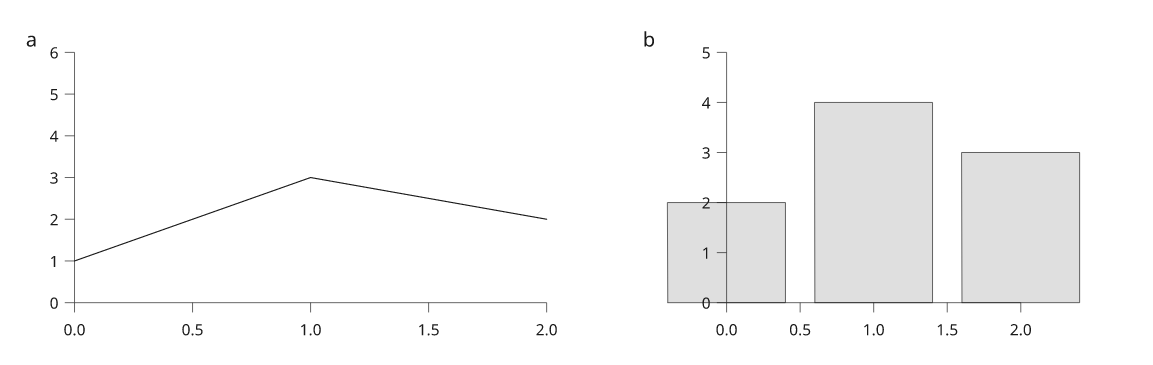
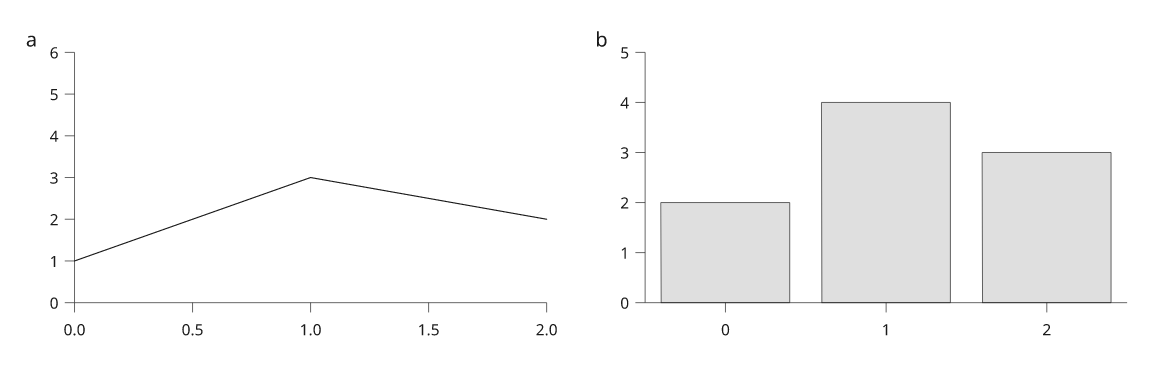
docs: contain layout example bars and refresh cached previews

diff --git a/tools/docs_site.py b/tools/docs_site.py
@@ -147,7 +147,7 @@ def on_post_build(config):
 
 
 def on_post_page(output, page, config):
-    """Version local page links, keeping canonical URLs and assets unchanged.
+    """Version local page links and figure previews, keeping canonical URLs unchanged.
 
     Read the Docs serves HTML with a 30-minute cache lifetime. A navigation
     rebuild can otherwise mix new and old page shells in the same browser.
@@ -157,11 +157,15 @@ def on_post_page(output, page, config):
     def version(match):
         prefix, target = match.groups()
         url = urlsplit(html.unescape(target))
-        if url.scheme or url.netloc or not url.path or not url.path.endswith(('/', '.html')):
+        figure = url.path.endswith('.png') and any(
+            folder in url.path for folder in ('assets/guides/', 'gallery/'))
+        if url.scheme or url.netloc or not url.path or not (
+                figure or url.path.endswith(('/', '.html'))):
             return match.group()
         query = dict(parse_qsl(url.query, keep_blank_values=True))
         query['v'] = config['extra']['page_version']
         target = urlunsplit((url.scheme, url.netloc, url.path, urlencode(query), url.fragment))
         return prefix + html.escape(target, quote=True) + '"'
 
-    return re.sub(r'(<a\b[^>]*?\bhref=")([^"]*)"', version, output)
+    output = re.sub(r'(<a\b[^>]*?\bhref=")([^"]*)"', version, output)
+    return re.sub(r'(<img\b[^>]*?\bsrc=")([^"]*)"', version, output)

diff --git a/tests/test_guides.py b/tests/test_guides.py
@@ -88,10 +88,14 @@ def test_page_versions_preserve_filters_anchors_and_external_links():
     module = importlib.util.module_from_spec(spec); spec.loader.exec_module(module)
     markup = ('<a href="../render-jobs/#devices">GPU</a>'
               '<a href="../examples/?type=3D&amp;q=room#gallery">Gallery</a>'
+              '<img src="../assets/guides/layout-3.png" alt="Layout">'
+              '<a href="../gallery/plots.png">Full figure</a>'
               '<a href="#local">Here</a><a href="../asset.png">Image</a>'
               '<a href="https://example.com/guide/">External</a>'
               '<link rel="canonical" href="https://inklet.readthedocs.io/en/latest/">')
     result = module.on_post_page(markup, None, {'extra': {'page_version': 'revision'}})
+    assert '../assets/guides/layout-3.png?v=revision' in result
+    assert '../gallery/plots.png?v=revision' in result
     assert '../render-jobs/?v=revision#devices' in result
     assert '../examples/?type=3D&amp;q=room&amp;v=revision#gallery' in result
     for unchanged in ('href="#local"', 'href="../asset.png"',

diff --git a/tests/test_docs_site.py b/tests/test_docs_site.py
@@ -101,6 +101,7 @@ def test_strict_site_has_working_assets_search_and_rendered_examples(tmp_path, m
     axis_page=site/'axes-and-scales/index.html'
     assert parsed_pages[axis_page.resolve()].expanded_groups==2
     assert 'id="search-section"' in axis_page.read_text()
+    assert f'../assets/guides/axes-and-scales-1.png?v={commit[:12]}' in axis_page.read_text()
     gpu_page = site/'render-jobs/index.html'
     gpu_html = gpu_page.read_text()
     assert parsed_pages[gpu_page.resolve()].expanded_groups == 2

diff --git a/docs/layout.md b/docs/layout.md
@@ -9,7 +9,9 @@ measured composition when components need an irregular arrangement.
 import inklet as i
 
 left = i.plot_spec(x=(0, 2), y=(0, 5)).line([(0, 1), (1, 3), (2, 2)]).axes()
-right = i.plot_spec(x=(0, 2), y=(0, 5)).bars([0, 1, 2], [2, 4, 3]).axes()
+right = i.plot_spec(x=(-.5, 2.5), y=(0, 5))
+right.bars([0, 1, 2], [2, 4, 3], width=.8)
+right.axis('bottom', ticks=[0, 1, 2]).axis('left')
 doc = i.document(width=180, columns=[1, 1], gap=8, row_gap=5, margin=5)
 doc.add('left', left, row=0, column=0, min_width=60, min_height=50)
 doc.add('right', right, row=0, column=1, min_width=60, min_height=50)
@@ -18,6 +20,11 @@ doc.add('caption', i.component(i.text, 'Two simulated measurements'),
 figure = doc.compile()
 assert figure.cells['caption'].width == 170
 ```
+
+On numeric scales, bars are centred at their x positions and `width` is in
+data units. Include their full width in the domain: these bars extend from
+−0.4 to 2.4, inside the chosen limits of −0.5 to 2.5. Categorical scales
+reserve a slot for each category automatically.
 
 Rows and columns are zero-based. Omitting `row` appends below existing cells;
 it does not fill the next unused column. `rowspan` and `colspan` reserve multiple
